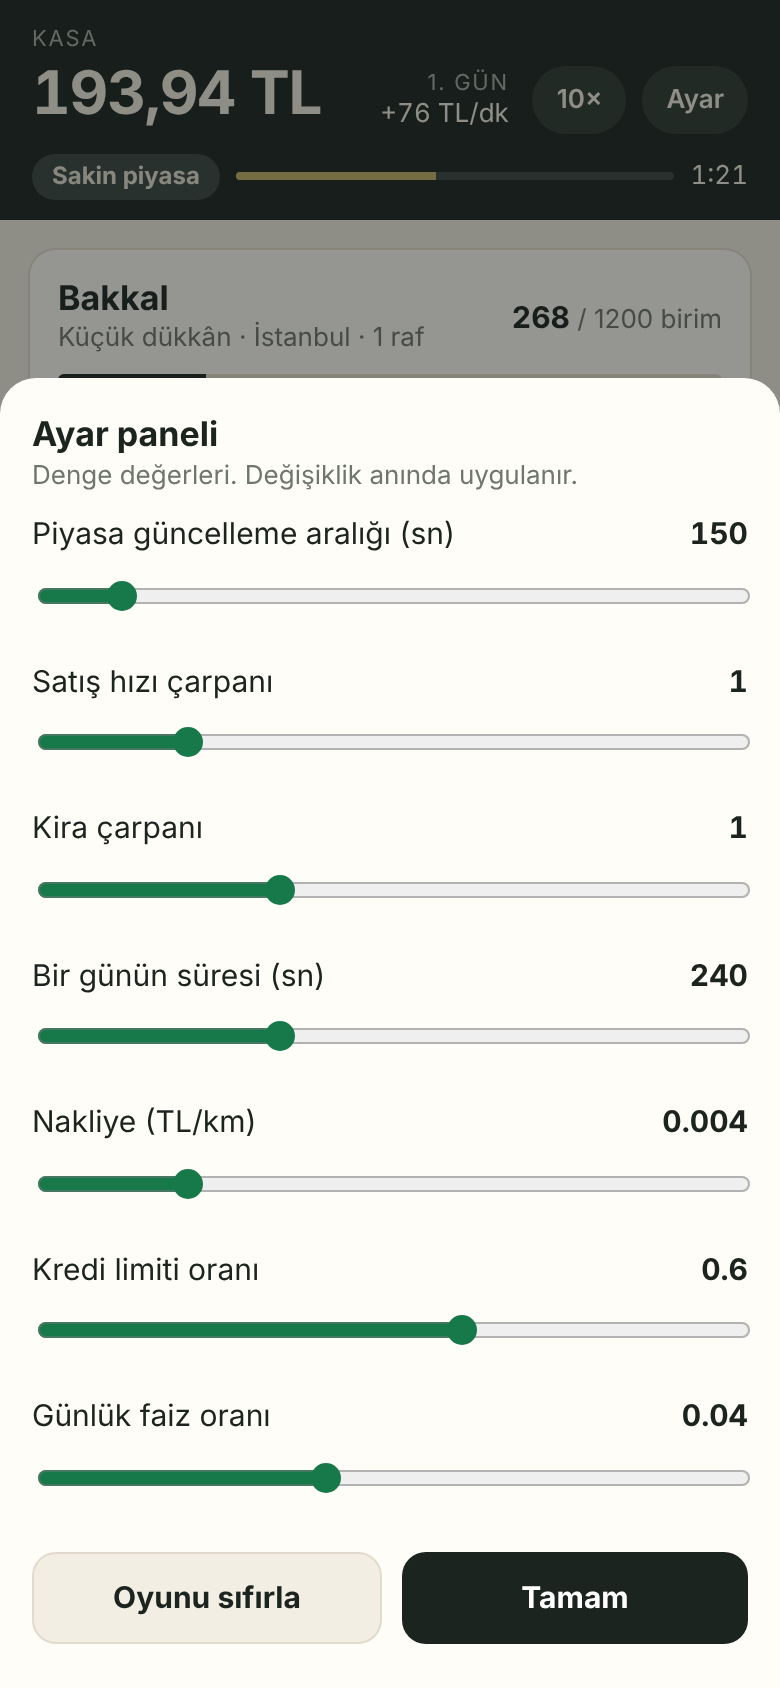
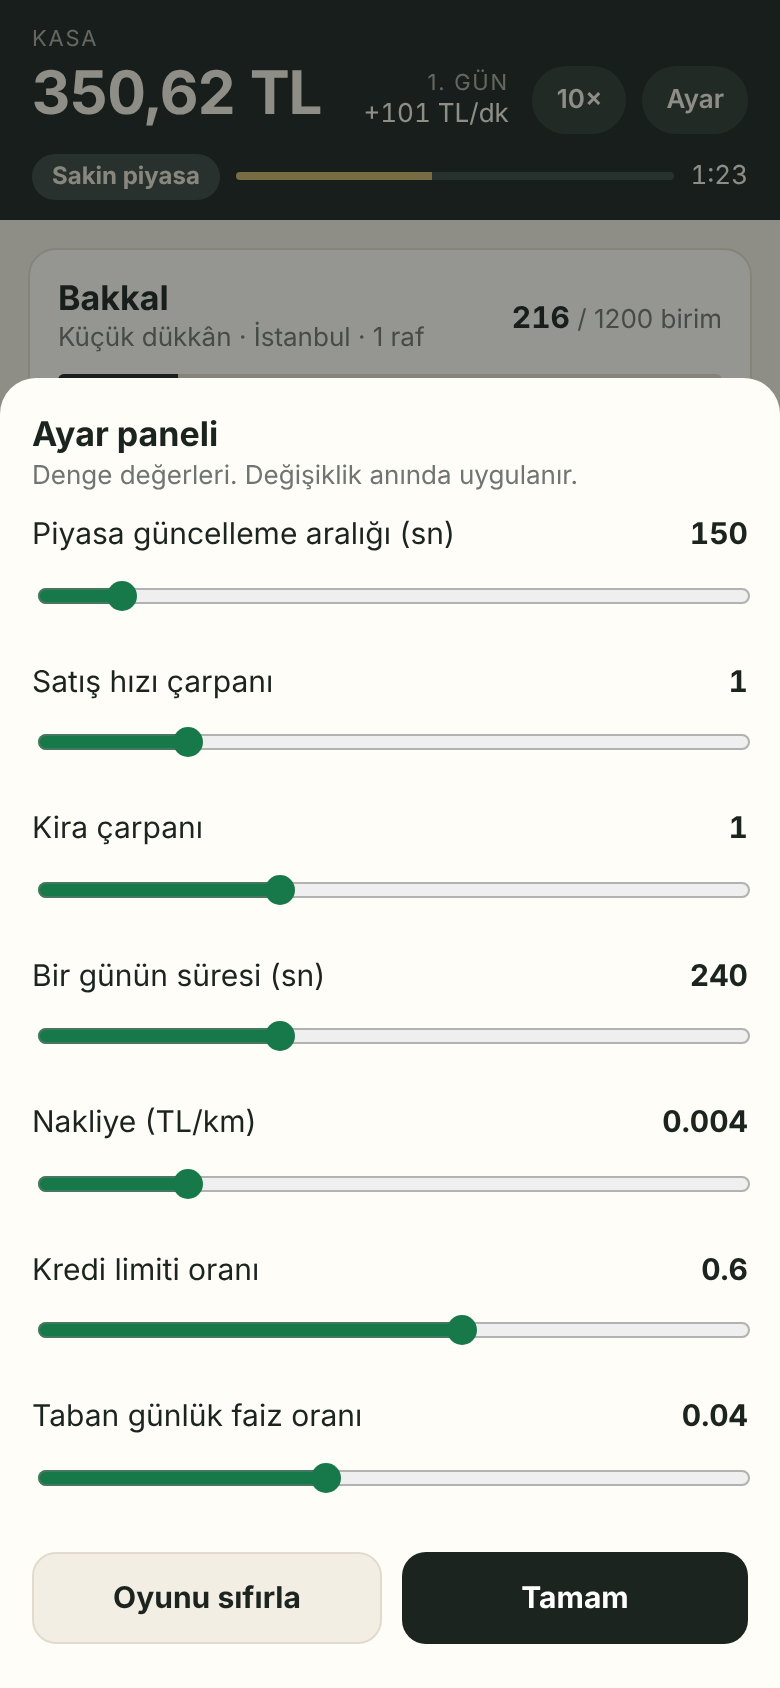
Risk turu: kademeli faiz, sert piyasa dalgası, günlük kârdan dilimli vergi
Claude-Session: https://claude.ai/code/session_016ga1EdVkJkJaVmwRgvhwTG

diff --git a/src/ui.ts b/src/ui.ts
@@ -3,7 +3,7 @@
 import {CONFIG} from "./data/config";
 import {TYPES} from "./data/shops";
 import {tl,clamp} from "./format";
-import {S,P,T,PIDS,roundP,sysPrice,refPrice,ship,net,sysListing,allListings,shopOf,depotUsed,depotCap,qualMult,shelfRate,shopProfit,profitPerMin,shopRent,upCost,xpNeed,maxBuy,buy,upgrade,openShop,loanLimit,borrow,repay,step,newGame,setOnEv,snapshot,restore} from "./engine";
+import {S,P,T,PIDS,roundP,sysPrice,refPrice,ship,net,sysListing,allListings,shopOf,depotUsed,depotCap,qualMult,shelfRate,shopProfit,profitPerMin,shopRent,upCost,xpNeed,maxBuy,buy,upgrade,openShop,loanLimit,borrow,repay,step,newGame,setOnEv,snapshot,restore,interestRate,taxFor,dayProfit,rentTotal} from "./engine";
 
 /* ---- Arayüz ---- */
 const $=id=>document.getElementById(id);
@@ -16,7 +16,7 @@ setOnEv((k,d)=>{
   else if(k==="listings"){if(S.tab==="market"&&!sheetL)dirty=true}
   else if(k==="empty"){toast(P[d.pid].ad+" bitti. Raf boş.");dirty=true}
   else if(k==="level"){toast(S.level+". seviye oldun. "+reward(S.level));dirty=true}
-  else if(k==="day"){S.feed.unshift({t:d.day+". gün kapandı: "+d.sold+" satış, kira"+(S.debt>0?" ve faiz":""),v:-d.rent,si:-1});dirty=true}
+  else if(k==="day"){S.feed.unshift({t:d.day+". gün kapandı: "+d.sold+" satış; kira"+(d.interest>0?", faiz":"")+(d.tax>0?", vergi":""),v:-d.total,si:-1});dirty=true}
   else if(k==="dead"){openEnd()}
 });
 function flushFeed(){let ch=false;for(const id in pend){const p=pend[id];S.feed.unshift({t:p.n+" × "+P[id].ad,v:p.r,nw:1,si:p.si});ch=true}pend={};if(S.feed.length>40)S.feed.length=40;
@@ -39,7 +39,8 @@ function renderHome(){
     if(al)h+=`<div class="card"><h2 style="margin-bottom:4px">Bekleyen işler</h2>${al}</div>`}
   h+=`<h3>Dükkânlarım</h3>`;
   S.shops.forEach((sh,i)=>{const u=depotUsed(sh),pr=shopProfit(sh);h+=`<button class="lst" data-a="shopgo" data-v="${i}"><div class="row"><div><b>${T[sh.type].ad}</b><div class="sm">${CONFIG.sizes[sh.size].ad} · İstanbul · ${sh.shelves.filter(x=>x).length}/${sh.shelves.length} raf dolu</div></div><div style="text-align:right"><b class="num ${pr>=0?"up":"dn"}">${pr>=0?"+":"−"}${tl(Math.abs(pr),0)} TL/dk</b><div class="sm num">kira ${tl(shopRent(sh),0)} TL/gün</div></div></div><div class="depo"><i style="width:${u/depotCap(sh)*100}%"></i></div></button>`});
-  const lim=loanLimit();h+=`<h3>Banka</h3><button class="lst" data-a="bank"><div class="row"><div><b>${S.debt>0?"Borç "+tl(S.debt,0)+" TL":"Borcun yok"}</b><div class="sm num">Kredi limiti ${tl(lim,0)} TL · faiz günde %${tl(CONFIG.interestDay*100,1)}</div></div><div style="text-align:right"><b class="num ${S.debt>0?"dn":""}">${S.debt>0?"−"+tl(S.debt*CONFIG.interestDay,0)+" TL/gün":tl(Math.max(0,lim-S.debt),0)+" TL"}</b><div class="sm">${S.debt>0?"faiz":"çekilebilir"}</div></div></div></button>`;
+  const lim=loanLimit();h+=`<h3>Banka</h3><button class="lst" data-a="bank"><div class="row"><div><b>${S.debt>0?"Borç "+tl(S.debt,0)+" TL":"Borcun yok"}</b><div class="sm num">Kredi limiti ${tl(lim,0)} TL · faiz günde %${tl(interestRate()*100,1)}</div></div><div style="text-align:right"><b class="num ${S.debt>0?"dn":""}">${S.debt>0?"−"+tl(S.debt*interestRate(),0)+" TL/gün":tl(Math.max(0,lim-S.debt),0)+" TL"}</b><div class="sm">${S.debt>0?"faiz":"çekilebilir"}</div></div></div></button>`;
+  const dp=dayProfit(),tx=taxFor(Math.max(0,dp));h+=`<h3>Devlet</h3><button class="lst" data-a="tax"><div class="row"><div><b>Vergi dairesi</b><div class="sm num">Bugünkü kâr <span id="dpT">${tl(dp,0)}</span> TL</div></div><div style="text-align:right"><b class="num ${tx>0?"dn":""}" id="txT">${tx>0?"−"+tl(tx,0)+" TL":"vergi yok"}</b><div class="sm">gün sonunda</div></div></div></button>`;
   const rest=TYPES.filter(t=>!S.shops.some(s=>s.type===t.id));
   if(rest.length){h+=`<h3>Yeni dükkân</h3>`;rest.forEach(t=>{const lk=S.level<t.level;h+=`<div class="card ${lk?"lock":""}"><div class="row"><div><h2>${t.ad}</h2><div class="sub">${t.products.slice(0,3).map(a=>a[1]).join(", ")} ve ${t.products.length-3} ürün daha</div></div>${lk?`<span class="tag q">${t.level}. seviyede açılır</span>`:costBtn("openshop",t.cost,`data-v="${t.id}"`)}</div></div>`})}
   return h}
@@ -75,7 +76,7 @@ function tickUI(){
   if(S.tab==="shop"){const sh=cur(),d=depotUsed(sh),n=$("depoN");if(n){n.textContent=d;$("depoB").style.width=d/depotCap(sh)*100+"%"}
     sh.shelves.forEach(sf=>{if(sf){const e=$("q-"+sf.pid);if(e)e.textContent=sh.stock[sf.pid].q}});
     const g=$("goalB");if(g)g.style.width=clamp(S.cash/+g.dataset.c*100,0,100)+"%"}
-  if(S.tab==="home"){const b=$("xpB");if(b){const a0=+b.dataset.a0,a1=+b.dataset.a1;b.style.width=clamp((S.xp-a0)/(a1-a0)*100,0,100)+"%";$("xpT").textContent="Sonraki seviyeye "+tl(Math.max(0,a1-S.xp),0)+" TL ciro"}}
+  if(S.tab==="home"){const b=$("xpB");if(b){const a0=+b.dataset.a0,a1=+b.dataset.a1;b.style.width=clamp((S.xp-a0)/(a1-a0)*100,0,100)+"%";const dp=dayProfit(),tx=taxFor(Math.max(0,dp));$("dpT").textContent=tl(dp,0);$("txT").textContent=tx>0?"−"+tl(tx,0)+" TL":"vergi yok";$("xpT").textContent="Sonraki seviyeye "+tl(Math.max(0,a1-S.xp),0)+" TL ciro"}}
   $("main").querySelectorAll("[data-cost]").forEach(b=>{if(b.disabled!==(S.cash<+b.dataset.cost))dirty=true});
 }
 /* ---- Alt sayfalar ---- */
@@ -99,14 +100,19 @@ function buySheet(){
 function swapSheet(i){const sh=cur(),have=T[sh.type].products.map(a=>P[a[0]]).filter(p=>sh.stock[p.id].q>0&&!sh.shelves.some(s=>s&&s.pid===p.id));
   openSheet(`<h2 style="margin-bottom:10px">${i+1}. rafta ne satılsın?</h2>`+(have.length?have.map(p=>`<button class="lst" data-a="setp" data-i="${i}" data-v="${p.id}"><div class="row"><b>${p.ad}</b><span class="sm num">${sh.stock[p.id].q} birim · %${Math.round(sh.stock[p.id].qual)}</span></div></button>`).join(""):`<div class="sub" style="margin-bottom:12px">Depoda rafta olmayan başka ürün yok. Önce pazardan al.</div>`)+`<button class="btn ghost full" data-a="close">Kapat</button>`)}
 function bankSheet(){sheetL=null;const lim=loanLimit(),av=Math.floor(Math.max(0,lim-S.debt)/100)*100,rp=Math.floor(Math.min(S.debt,Math.max(0,S.cash))),f=x=>tl(x,0)+" TL";
-  openSheet(`<h2>Banka</h2><div class="sub">Kredi limitin, dükkânlarının ve depodaki malın değerinin %${Math.round(CONFIG.loanRatio*100)} kadarıdır. Faiz her gün sonunda kasadan kesilir.</div>
-  <table class="tbl num"><tr><td>Borç</td><td>${f(S.debt)}</td></tr><tr><td>Kredi limiti</td><td>${f(lim)}</td></tr><tr><td>Günlük faiz (%${tl(CONFIG.interestDay*100,1)})</td><td>${f(S.debt*CONFIG.interestDay)}</td></tr></table>
+  openSheet(`<h2>Banka</h2><div class="sub">Kredi limitin, dükkânlarının ve depodaki malın değerinin %${Math.round(CONFIG.loanRatio*100)} kadarıdır. Faiz her gün sonunda kasadan kesilir. Borcun limitin yarısını geçince faiz artar: %${tl(CONFIG.interestDay*100,0)}, yarıdan sonra %${tl(CONFIG.interestDay*CONFIG.interestSteps[0].k*100,0)}, %80 üstünde %${tl(CONFIG.interestDay*CONFIG.interestSteps[1].k*100,0)}.</div>
+  <table class="tbl num"><tr><td>Borç</td><td>${f(S.debt)}</td></tr><tr><td>Kredi limiti</td><td>${f(lim)}</td></tr><tr><td>Günlük faiz (%${tl(interestRate()*100,1)})</td><td>${f(S.debt*interestRate())}</td></tr></table>
   ${av>=100?`<div class="row"><b>Kredi çek</b><b class="num" id="bv"></b></div><input type="range" id="bq" min="100" max="${av}" step="100" value="${Math.max(100,Math.floor(av/200)*100)}"><button class="btn g full" data-a="borrow">Kredi çek</button>`:`<div class="card hint">Çekilebilir kredin yok.</div>`}
   ${rp>=1?`<div class="row" style="margin-top:16px"><b>Borç öde</b><b class="num" id="pv"></b></div><input type="range" id="pq" min="1" max="${rp}" value="${rp}"><button class="btn full" data-a="repay">Borç öde</button>`:""}
   <button class="btn ghost full" style="margin-top:10px" data-a="close">Kapat</button>`);
-  const b=$("bq"),q=$("pq");if(b){const u=()=>$("bv").textContent=f(+b.value)+" · faizi "+f((S.debt+ +b.value)*CONFIG.interestDay)+"/gün";b.oninput=u;u()}if(q){const u=()=>$("pv").textContent=f(+q.value);q.oninput=u;u()}}
+  const b=$("bq"),q=$("pq");if(b){const u=()=>$("bv").textContent=f(+b.value)+" · faizi "+f((S.debt+ +b.value)*interestRate(S.debt+ +b.value))+"/gün";b.oninput=u;u()}if(q){const u=()=>$("pv").textContent=f(+q.value);q.oninput=u;u()}}
+function taxSheet(){sheetL=null;const dp=dayProfit(),f=x=>tl(x,0)+" TL";let lo=0;
+  openSheet(`<h2>Vergi dairesi</h2><div class="sub">Her gün sonunda o günün kârından vergi kesilir. Kâr; cirodan satılan malın maliyeti, kira ve faiz düşülerek hesaplanır. Oranlar dilimlidir: her oran yalnızca kendi dilimindeki kâra uygulanır.</div>
+  <table class="tbl num">${CONFIG.taxBrackets.map(b=>{const r=`<tr><td>${b.upTo===Infinity?f(lo)+" üstü":f(lo)+" – "+f(b.upTo)}</td><td>%${tl(b.rate*100,0)}</td></tr>`;lo=b.upTo;return r}).join("")}</table>
+  <table class="tbl num"><tr><td>Bugünkü ciro</td><td>${f(S.d.rev)}</td></tr><tr><td>Satılan malın maliyeti</td><td>${f(S.d.cogs||0)}</td></tr><tr><td>Kira ve faiz</td><td>${f(rentTotal()+S.debt*interestRate())}</td></tr><tr><td>Bugünkü kâr</td><td>${f(dp)}</td></tr><tr><td>Tahmini vergi</td><td class="${dp>0?"dn":""}">${f(taxFor(Math.max(0,dp)))}</td></tr></table>
+  <button class="btn ghost full" data-a="close">Kapat</button>`)}
 function settingsSheet(){const r=(k,a,b,s,lab)=>`<div class="row" style="margin-top:10px"><span>${lab}</span><b class="num" id="v-${k}">${CONFIG[k]}</b></div><input type="range" id="r-${k}" data-k="${k}" min="${a}" max="${b}" step="${s}" value="${CONFIG[k]}">`;
-  openSheet(`<h2>Ayar paneli</h2><div class="sub">Denge değerleri. Değişiklik anında uygulanır.</div>${r("marketSec",30,1200,30,"Piyasa güncelleme aralığı (sn)")}${r("rateScale",.5,3,.1,"Satış hızı çarpanı")}${r("rentScale",0,3,.1,"Kira çarpanı")}${r("daySec",60,600,30,"Bir günün süresi (sn)")}${r("shipPerKm",0,.02,.001,"Nakliye (TL/km)")}${r("loanRatio",0,1,.05,"Kredi limiti oranı")}${r("interestDay",0,.1,.005,"Günlük faiz oranı")}
+  openSheet(`<h2>Ayar paneli</h2><div class="sub">Denge değerleri. Değişiklik anında uygulanır.</div>${r("marketSec",30,1200,30,"Piyasa güncelleme aralığı (sn)")}${r("rateScale",.5,3,.1,"Satış hızı çarpanı")}${r("rentScale",0,3,.1,"Kira çarpanı")}${r("daySec",60,600,30,"Bir günün süresi (sn)")}${r("shipPerKm",0,.02,.001,"Nakliye (TL/km)")}${r("loanRatio",0,1,.05,"Kredi limiti oranı")}${r("interestDay",0,.1,.005,"Taban günlük faiz oranı")}
   <div class="row" style="margin-top:14px"><button class="btn ghost" style="flex:1" data-a="reset">Oyunu sıfırla</button><button class="btn" style="flex:1" data-a="close">Tamam</button></div>`);
   $("sheet").querySelectorAll("input").forEach(i=>i.oninput=()=>{CONFIG[i.dataset.k]=+i.value;$("v-"+i.dataset.k).textContent=i.value})}
 function openEnd(){S.speed=1;openSheet(`<h2>İflas ettin.</h2><p>Kasa ekside ve depolarda satacak mal kalmadı (${S.day-1}. gün).</p><button class="btn full" data-a="reset">Yeniden başla</button>`)}
@@ -120,6 +126,7 @@ document.addEventListener("click",e=>{
   else if(a==="gomarket"){S.cur=+v;S.tab="market";top()}
   else if(a==="sel"){if(S.level<P[v].lvl){toast(P[v].ad+" "+P[v].lvl+". seviyede açılır.");return}S.sel[cur().type]=v}
   else if(a==="bank"){bankSheet();return}
+  else if(a==="tax"){taxSheet();return}
   else if(a==="borrow"){const x=borrow(+$("bq").value);if(x)toast(tl(x,0)+" TL kredi çekildi.");bankSheet();tickUI();return}
   else if(a==="repay"){const x=repay(+$("pq").value);if(x)toast(tl(x,0)+" TL borç ödendi.");bankSheet();tickUI();return}
   else if(a==="goto"){S.cur=S.shops.indexOf(shopOf(v));S.sel[P[v].type]=v;S.tab="market";top()}

diff --git a/src/engine.ts b/src/engine.ts
@@ -15,7 +15,7 @@ export interface State {
   shops: Shop[]; cur: number; sel: Record<string, string>; feed: FeedItem[];
   listings: Record<string, Listing[]>;
   market: { state: MarketState; nextAt: number; mult: Record<string, number>; hist: Record<string, number[]> };
-  churnAt: number; d: { rev: number; buy: number; sold: number };
+  churnAt: number; d: { rev: number; buy: number; sold: number; cogs: number };
   dead: boolean; speed: number; tab: "home" | "shop" | "market"; first: boolean;
 }
 export type Ev = "sale" | "market" | "listings" | "empty" | "level" | "day" | "dead";
@@ -57,7 +57,7 @@ function mkShop(type: string): Shop {
 }
 export function newGame() {
   S = { cash: CONFIG.startCash, debt: 0, t: 0, day: 1, xp: 0, level: 1, shops: [mkShop("bakkal")], cur: 0, sel: {}, feed: [], listings: {},
-    market: { state: "sakin", nextAt: CONFIG.marketSec, mult: {}, hist: {} }, churnAt: CONFIG.churnSec, d: { rev: 0, buy: 0, sold: 0 }, dead: false, speed: 1, tab: "home", first: true };
+    market: { state: "sakin", nextAt: CONFIG.marketSec, mult: {}, hist: {} }, churnAt: CONFIG.churnSec, d: { rev: 0, buy: 0, sold: 0, cogs: 0 }, dead: false, speed: 1, tab: "home", first: true };
   TYPES.forEach((t) => (S.sel[t.id] = t.products[0][0]));
   PIDS.forEach((id) => {
     S.market.mult[id] = 1; S.market.hist[id] = [P[id].sys]; S.listings[id] = [];
@@ -129,6 +129,25 @@ export const loanLimit = () => Math.floor((assets() * CONFIG.loanRatio) / 100) *
 export function borrow(x: number) { x = Math.min(x, loanLimit() - S.debt); if (x <= 0) return 0; S.debt += x; S.cash += x; return x; }
 export function repay(x: number) { x = Math.min(x, S.debt, Math.max(0, S.cash)); if (x <= 0) return 0; S.debt -= x; S.cash -= x; return x; }
 
+/** Günlük faiz oranı: borcun limite oranı arttıkça kademeli yükselir. */
+export function interestRate(debt: number = S.debt) {
+  const lim = loanLimit(), u = lim > 0 ? debt / lim : debt > 0 ? 9 : 0;
+  let k = 1;
+  for (const s of CONFIG.interestSteps) if (u >= s.from) k = s.k;
+  return CONFIG.interestDay * k;
+}
+
+// ---- Devlet ----
+/** Dilimli vergi: her dilim yalnızca kendi aralığındaki kâra uygulanır. */
+export function taxFor(profit: number) {
+  let tax = 0, lo = 0;
+  for (const b of CONFIG.taxBrackets) { if (profit > lo) tax += (Math.min(profit, b.upTo) - lo) * b.rate; lo = b.upTo; }
+  return tax;
+}
+export const rentTotal = () => S.shops.reduce((s, sh) => s + shopRent(sh), 0);
+/** Günün şu ana kadarki kârı: ciro - satılan malın maliyeti - kira - faiz. */
+export const dayProfit = () => S.d.rev - (S.d.cogs || 0) - rentTotal() - S.debt * interestRate();
+
 // ---- Zaman ----
 function marketUpdate() {
   const keys = (Object.keys(CONFIG.states) as MarketState[]).filter((k) => k !== S.market.state || rnd() < 0.25);
@@ -152,10 +171,11 @@ function churn() {
   ev("listings");
 }
 function endDay() {
-  const rent = S.shops.reduce((s, sh) => s + shopRent(sh), 0) + S.debt * CONFIG.interestDay;
-  S.cash -= rent;
-  ev("day", { day: S.day, sold: S.d.sold, rent });
-  S.day++; S.d = { rev: 0, buy: 0, sold: 0 };
+  const rent = rentTotal(), interest = S.debt * interestRate(), tax = taxFor(Math.max(0, dayProfit()));
+  const total = rent + interest + tax;
+  S.cash -= total;
+  ev("day", { day: S.day, sold: S.d.sold, rent, interest, tax, total });
+  S.day++; S.d = { rev: 0, buy: 0, sold: 0, cogs: 0 };
   if (S.cash < 0 && S.shops.every((sh) => depotUsed(sh) === 0)) { S.dead = true; ev("dead"); }
 }
 /** Oyunu dt saniye ilerletir. */
@@ -171,7 +191,7 @@ export function step(dt: number) {
     if (n > 0) {
       sh.acc[sf.pid] -= n; st.q -= n;
       const r = n * sf.price;
-      S.cash += r; S.xp += r; S.d.rev += r; S.d.sold += n;
+      S.cash += r; S.xp += r; S.d.rev += r; S.d.sold += n; S.d.cogs = (S.d.cogs || 0) + n * st.cost;
       ev("sale", { pid: sf.pid, n, r, si });
       if (st.q === 0) { sh.acc[sf.pid] = 0; ev("empty", { pid: sf.pid }); }
     }

diff --git a/scripts/bot.ts b/scripts/bot.ts
@@ -1,11 +1,11 @@
-// Denge için basit bir oyuncu. "ucuz": krediye dokunmaz. "kredi": limitini hep sonuna kadar kullanır.
+// Denge için basit bir oyuncu. "ucuz": krediye dokunmaz. "olcu": limitinin yarısına kadar borçlanır. "kredi": limitini hep sonuna kadar kullanır.
 import * as k from "../src/engine";
 import { CONFIG } from "../src/data/config";
 import { TYPES } from "../src/data/shops";
 
 export interface BotResult { lv: Record<number, number>; ev: string[]; dead: number | null; cash: number; debt: number; level: number; shops: string }
 
-export function runBot(seed: number, mode: "ucuz" | "kredi", minutes: number): BotResult {
+export function runBot(seed: number, mode: "ucuz" | "olcu" | "kredi", minutes: number): BotResult {
   k.setSeed(seed); k.newGame();
   const S = k.S, res: BotResult = { lv: {}, ev: [], dead: null, cash: 0, debt: 0, level: 1, shops: "" };
   const m = () => Math.round(S.t / 60);
@@ -20,7 +20,7 @@ export function runBot(seed: number, mode: "ucuz" | "kredi", minutes: number): B
     if (S.dead) { res.dead = m(); break; }
     if (S.level > lv) { lv = S.level; res.lv[lv] = m(); }
     if (i % 5) continue;
-    if (mode === "kredi") { const av = k.loanLimit() - S.debt; if (av >= 500) k.borrow(Math.floor(av / 100) * 100); }
+    if (mode !== "ucuz") { const av = k.loanLimit() * (mode === "olcu" ? 0.5 : 1) - S.debt; if (av >= 500) k.borrow(Math.floor(av / 100) * 100); }
     for (const t of TYPES) if (!S.shops.some((s) => s.type === t.id) && S.level >= t.level && S.cash >= t.cost + 1500 && k.openShop(t.id)) res.ev.push(t.id + "@" + m());
     for (const sh of S.shops) { const c = k.upCost(sh); if (c != null && S.cash >= c + 1500 && sh.shelves.every((x) => x) && k.upgrade(sh)) res.ev.push(sh.type + "^" + sh.size + "@" + m()); }
     for (const sh of S.shops) {
@@ -29,7 +29,7 @@ export function runBot(seed: number, mode: "ucuz" | "kredi", minutes: number): B
       const onShelf = sh.shelves.filter((x) => x).map((x) => x!.pid);
       const want = onShelf.concat(ranked.map((o) => o.pid).filter((p) => !onShelf.includes(p))).slice(0, sh.shelves.length);
       for (const pid of want) {
-        if (sh.stock[pid].q < 30) { const l = best(pid); if (k.net(l) < k.refPrice(pid) * 0.97) k.buy(l, Math.min(Math.floor(S.cash / want.length / k.net(l)), mode === "kredi" ? 1500 : 400)); }
+        if (sh.stock[pid].q < 30) { const l = best(pid); if (k.net(l) < k.refPrice(pid) * 0.97) k.buy(l, Math.min(Math.floor(S.cash / want.length / k.net(l)), mode === "ucuz" ? 400 : 1500)); }
         const sf = sh.shelves.find((s) => s && s.pid === pid);
         if (sf) sf.price = k.roundP(k.refPrice(pid));
       }

diff --git a/tests/engine.test.ts b/tests/engine.test.ts
@@ -45,9 +45,29 @@ describe("banka", () => {
     expect(k.repay(1e9)).toBe(lim); expect(k.S.debt).toBe(0);
   });
   it("faiz gün sonunda kesilir", () => {
-    k.borrow(2000); const before = k.S.cash;
+    k.borrow(1000); const before = k.S.cash; // limitin yarısının altı: taban oran
     k.step(CONFIG.daySec);
-    expect(k.S.cash).toBeCloseTo(before - CONFIG.sizes[0].rent - 2000 * CONFIG.interestDay);
+    expect(k.S.cash).toBeCloseTo(before - CONFIG.sizes[0].rent - 1000 * CONFIG.interestDay);
+  });
+  it("borç limite yaklaştıkça faiz kademeli artar", () => {
+    const lim = k.loanLimit();
+    expect(k.interestRate(lim * 0.4)).toBeCloseTo(CONFIG.interestDay);
+    expect(k.interestRate(lim * 0.6)).toBeCloseTo(CONFIG.interestDay * 1.5);
+    expect(k.interestRate(lim * 0.9)).toBeCloseTo(CONFIG.interestDay * 2.25);
+    expect(k.interestRate(lim * 1.2)).toBeCloseTo(CONFIG.interestDay * 3);
+  });
+});
+
+describe("devlet", () => {
+  it("vergi dilimlidir: her oran yalnızca kendi dilimine uygulanır", () => {
+    expect(k.taxFor(800)).toBe(0);
+    expect(k.taxFor(3000)).toBeCloseTo(200); // (3000-1000) x %10
+    expect(k.taxFor(10000)).toBeCloseTo(400 + 1000); // 4000 x %10 + 5000 x %20
+    expect(k.taxFor(30000)).toBeCloseTo(400 + 3000 + 3000);
+  });
+  it("zarar eden günde vergi kesilmez", () => {
+    const before = k.S.cash; k.step(CONFIG.daySec);
+    expect(k.S.cash).toBeCloseTo(before - CONFIG.sizes[0].rent);
   });
 });
 

diff --git a/scripts/sim.ts b/scripts/sim.ts
@@ -1,8 +1,8 @@
-// npm run sim — iki bot tipini üç dünyada 5 oyun saati oynatır, kilometre taşlarını oyun dakikası olarak basar.
+// npm run sim — üç bot tipini üç dünyada 5 oyun saati oynatır, kilometre taşlarını oyun dakikası olarak basar.
 import { runBot } from "./bot";
 const at = (r: ReturnType<typeof runBot>, key: string) => { const e = r.ev.find((x) => x.startsWith(key)); return e ? e.split("@")[1].padStart(4) : "   -"; };
 console.log("bot    dünya | 2.sv 3.sv 6.sv 9.sv | bakkal↑ manav kuruy. tekel | son: seviye  kasa     borç    iflas");
-for (const mode of ["ucuz", "kredi"] as const)
+for (const mode of ["ucuz", "olcu", "kredi"] as const)
   for (const seed of [11, 222, 3333]) {
     const r = runBot(seed, mode, 300), lv = (n: number) => String(r.lv[n] ?? "-").padStart(4);
     console.log(`${mode.padEnd(6)} ${String(seed).padStart(5)} | ${lv(2)} ${lv(3)} ${lv(6)} ${lv(9)} | ${at(r, "bakkal^1")}    ${at(r, "manav@")}  ${at(r, "kuruyemis@")}   ${at(r, "tekel@")} | ${String(r.level).padStart(10)} ${String(r.cash).padStart(7)} ${String(r.debt).padStart(8)}  ${r.dead ?? "yok"}`);

diff --git a/src/data/config.ts b/src/data/config.ts
@@ -10,11 +10,24 @@ export const CONFIG = {
   xpBase: 1800, // seviye n için gereken toplam ciro: xpBase * (n-1)^xpPow
   xpPow: 2.2,
   loanRatio: 0.6, // kredi limiti = servet * oran
-  interestDay: 0.04, // günlük faiz
+  interestDay: 0.04, // taban günlük faiz
+  // Borç / limit oranı eşiği geçtikçe faiz çarpanı büyür. Limit aşılırsa cezai oran uygulanır.
+  interestSteps: [
+    { from: 0.5, k: 1.5 },
+    { from: 0.8, k: 2.25 },
+    { from: 1.0001, k: 3 },
+  ],
+  // Günlük kâr üzerinden dilimli vergi (her dilim yalnızca kendi aralığına uygulanır).
+  taxBrackets: [
+    { upTo: 1000, rate: 0 },
+    { upTo: 5000, rate: 0.1 },
+    { upTo: 20000, rate: 0.2 },
+    { upTo: Infinity, rate: 0.3 },
+  ],
   states: {
     sakin: { ad: "Sakin piyasa", m: 1 },
-    canli: { ad: "Canlı piyasa", m: 1.12 },
-    kotu: { ad: "Kötü piyasa", m: 0.88 },
+    canli: { ad: "Canlı piyasa", m: 1.15 },
+    kotu: { ad: "Kötü piyasa", m: 0.8 },
   },
   sizes: [
     { ad: "Küçük", shelves: 1, depot: 1200, rent: 120, costK: 0 },

diff --git a/tools/play.py b/tools/play.py
@@ -13,7 +13,7 @@ with sync_playwright() as p:
     pg.click('#spd'); pg.click('#spd'); pg.wait_for_timeout(6000)
     pg.click('[data-a=price][data-v="1"]'); pg.wait_for_timeout(300); pg.screenshot(path=out+'/4-dukkan.png')
     pg.click('[data-a=settings]'); pg.wait_for_timeout(200); pg.screenshot(path=out+'/5-ayar.png'); pg.click('[data-a=close]')
-    pg.click('#t-market'); pg.wait_for_timeout(200); pg.screenshot(path=out+'/6-pazar2.png'); pg.evaluate('()=>{const S=__k.S;S.cash=40000;S.xp=20000;S.speed=1}'); pg.wait_for_timeout(600); pg.click('#t-home'); pg.wait_for_timeout(300); pg.click('[data-a=openshop]'); pg.wait_for_timeout(300); pg.click('.lst >> nth=0'); pg.click('#sbuy'); pg.wait_for_timeout(300); pg.click('[data-a=upgrade]'); pg.wait_for_timeout(300); pg.screenshot(path=out+'/7-manav.png'); pg.click('#t-home'); pg.wait_for_timeout(400); pg.click('[data-a=bank]'); pg.wait_for_timeout(200); pg.screenshot(path=out+'/9-banka.png'); pg.click('[data-a=borrow]'); pg.wait_for_timeout(200); pg.click('#sheet [data-a=close]'); pg.wait_for_timeout(1200); pg.screenshot(path=out+'/8-ana.png',full_page=False)
+    pg.click('#t-market'); pg.wait_for_timeout(200); pg.screenshot(path=out+'/6-pazar2.png'); pg.evaluate('()=>{const S=__k.S;S.cash=40000;S.xp=20000;S.speed=1}'); pg.wait_for_timeout(600); pg.click('#t-home'); pg.wait_for_timeout(300); pg.click('[data-a=openshop]'); pg.wait_for_timeout(300); pg.click('.lst >> nth=0'); pg.click('#sbuy'); pg.wait_for_timeout(300); pg.click('[data-a=upgrade]'); pg.wait_for_timeout(300); pg.screenshot(path=out+'/7-manav.png'); pg.click('#t-home'); pg.wait_for_timeout(400); pg.click('[data-a=bank]'); pg.wait_for_timeout(200); pg.screenshot(path=out+'/9-banka.png'); pg.click('[data-a=borrow]'); pg.wait_for_timeout(200); pg.click('#sheet [data-a=close]'); pg.wait_for_timeout(300); pg.click('[data-a=tax]'); pg.wait_for_timeout(200); pg.screenshot(path=out+'/10-vergi.png'); pg.click('#sheet [data-a=close]'); pg.wait_for_timeout(1200); pg.screenshot(path=out+'/8-ana.png',full_page=False)
     info=pg.evaluate('''()=>{const S=__k.S;const over=[...document.querySelectorAll("#app *")].filter(e=>{const r=e.getBoundingClientRect();return r.width&&(r.right>391||r.left<-1)&&!e.closest(".prods")}).length;
       const small=[...document.querySelectorAll("#app *")].filter(e=>e.children.length==0&&e.textContent.trim()&&parseFloat(getComputedStyle(e).fontSize)<11).length;
       return {cash:S.cash,day:S.day,level:S.level,shops:S.shops.map(s=>s.type+s.size+':'+s.shelves.length),over,small,sw:document.documentElement.scrollWidth}}''')
